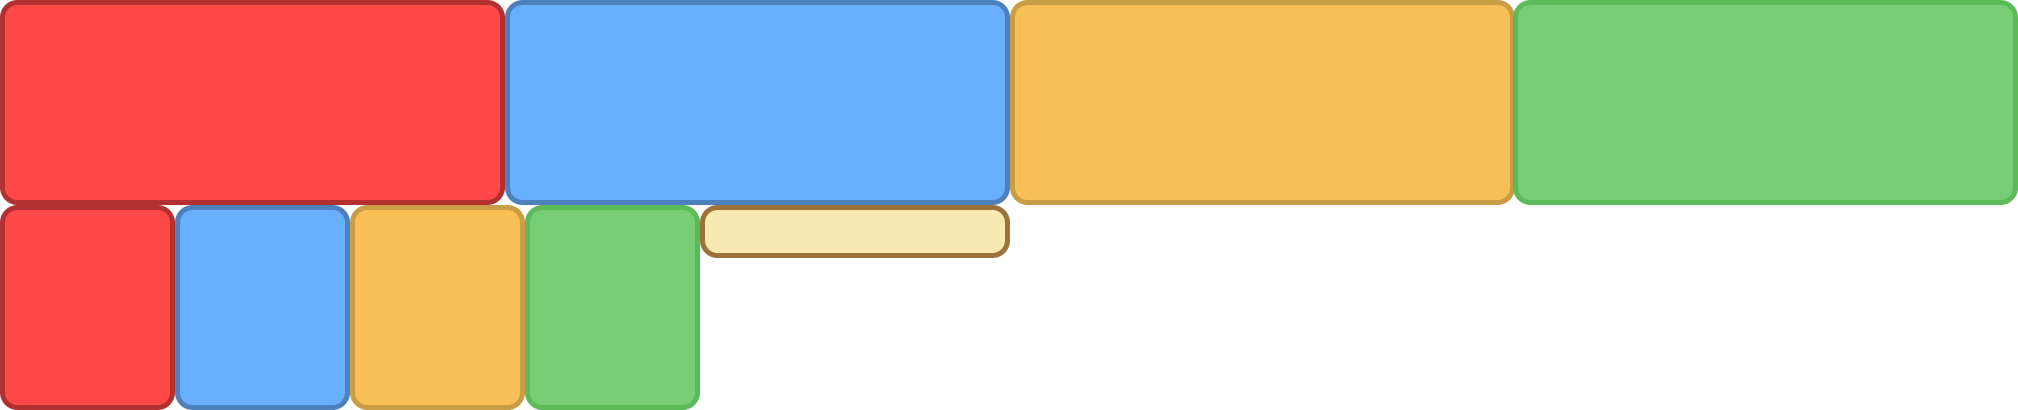
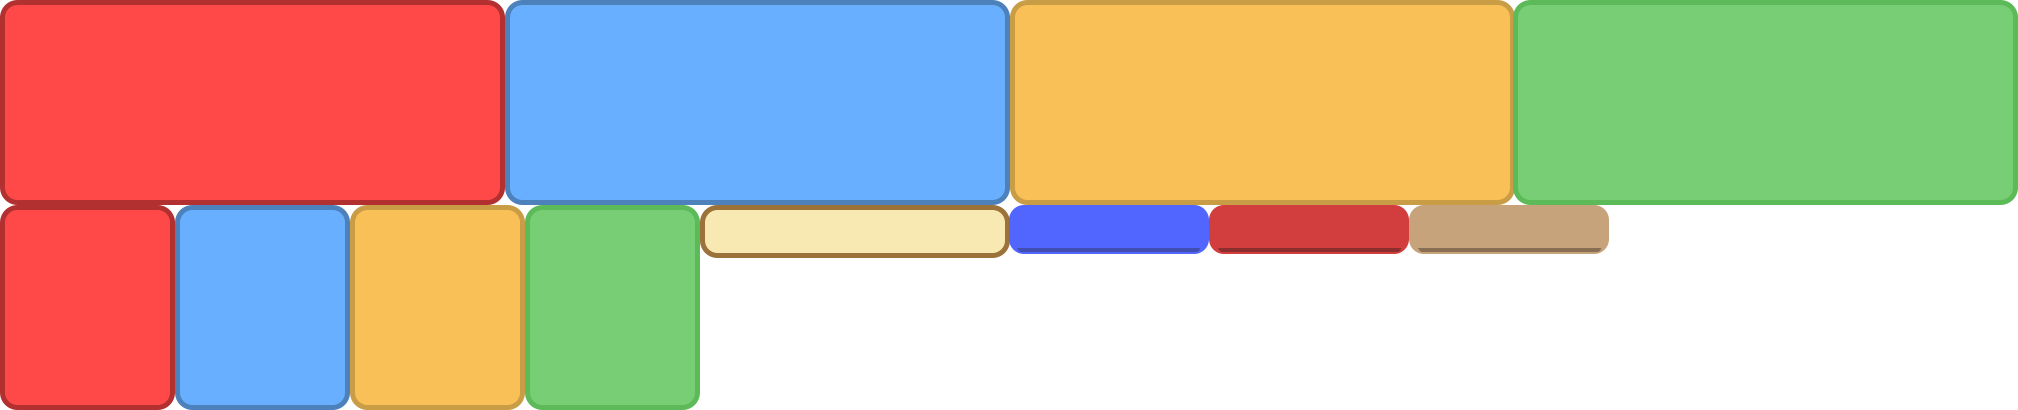
Ajout bouton

Changed region(s): [[0.4995, 0.4976, 0.8117, 0.6439]]

diff --git a/src/shared/view/DisplayHUD.cpp b/src/shared/view/DisplayHUD.cpp
@@ -310,6 +310,22 @@ DisplayHUD::DisplayHUD(int WIDTH, int LENGTH, Player& player1, Player& player2, 
 
     //--------------------player1Cards------------------------
 
+    //-----------------------Button---------------------------
+
+    Sprite * buttonPassTurn = new Sprite(playerSquare, IntRect(1009, 205, 199, 48));
+    Sprite * buttonExchange = new Sprite(playerSquare, IntRect(1009 + 199, 205, 199, 48));
+    Sprite * buttonBuild = new Sprite(playerSquare, IntRect(1009 + 199*2, 205, 199, 48));
+
+    Text * PassTurn = new Text("Passer son tour", font, 24);
+    Text * Exchange = new Text("Echange", font, 24);
+    Text * Build = new Text("Construction", font, 24);
+
+    buttonPassTurn->setPosition(WIDTH - scrennGap - buttonPassTurn->getGlobalBounds().width, LENGTH - scrennGap -  buttonPassTurn->getGlobalBounds().height);
+    PassTurn->setOrigin(PassTurn->getGlobalBounds().width/2, PassTurn->getGlobalBounds().height/2);
+    PassTurn->setPosition(buttonPassTurn->getGlobalBounds().width/2, buttonPassTurn->getGlobalBounds().height/2);
+
+    //-----------------------Button---------------------------
+
 }
 
 void DisplayHUD::render(sf::RenderTarget& target, Player player1, Player player2, Player player3, Player player4){
